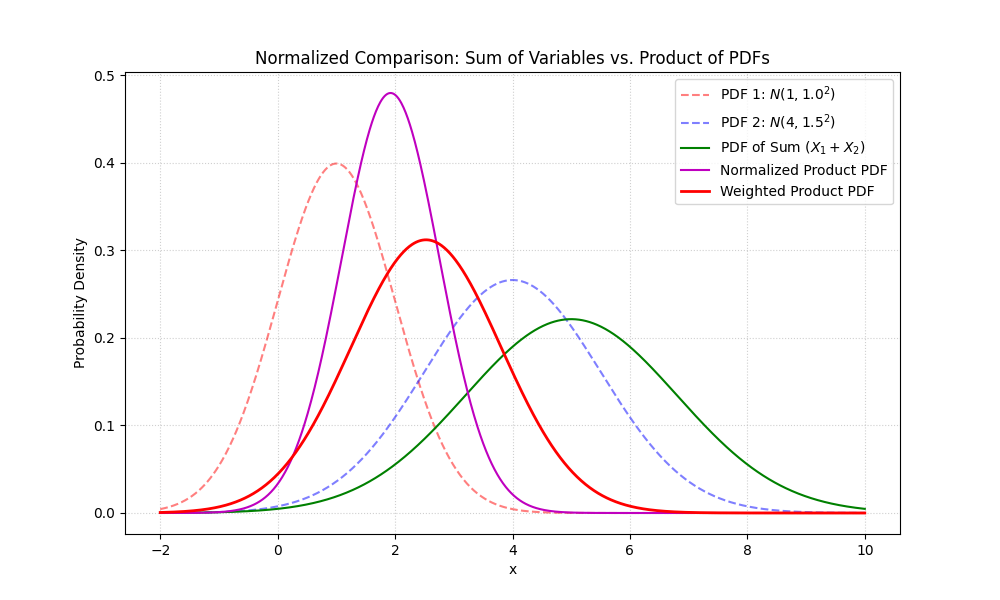
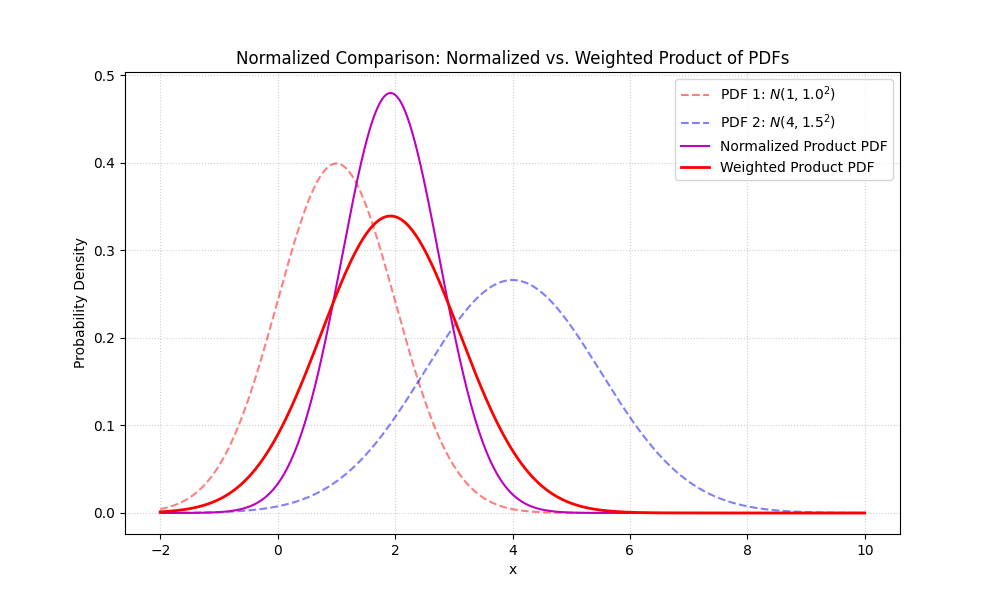
temp

diff --git a/_posts/2026-03-29-chzzk-racing-rating-2.md b/_posts/2026-03-29-chzzk-racing-rating-2.md
@@ -4,7 +4,7 @@ title: "치레동 레이팅 설계해보기 (수식)"
 latex_needed: true
 comment: true
 
-excerpt: "진짜로 수식이 궁금하신가요"
+excerpt: "진짜로 뭘 어떻게 했는지 궁금하신가요"
 topic: "레이팅"
 keyword:
   - "치지직 레이싱 동아리"
@@ -75,7 +75,7 @@ modified_date:
 1. 꾸준한 퍼포먼스를 반영하는 레이팅
 1. 대결한 선수의 실력에 따른 레이팅 보정
 
-또한 주석으로 언급하기는 했으나 랭킹 지수 자체에도 약간 수학적 결함이 있다. 다만 사소한 내용이니 궁금하다면 클릭해서 펼쳐보면 좋을 것 같다.
+또한 주석으로 언급하기는 했으나 랭킹 지수 자체에도 약간 수학적 결함이 있다. 아래 글씨를 클릭하면 볼 수 있으니 관심이 있다면 확인해보길 바란다.
 
 <p><details>
 <summary><u>랭킹 지수의 (사소한) 수학적 결함</u></summary>
@@ -89,12 +89,19 @@ $$
 \end{aligned}
 $$
 
-여기서 랭킹 지수에 문제가 있다. 치레동 1회에서 만약 압도적인 실력으로 티어 지수 1을 기록했다면, 랭킹 지수가 어떻게 될까? $\frac{10}{1}\times\frac{1}{12}=0.8333...$이 되어 랭킹 지수가 1보다 낮아진다. 이는 <b>10명이 참가하는 대회에서 대략적으로 획득할 것으로 기대하는 순위인데, 이것이 1보다 작아지는 것</b>이다. 따라서 개인적으로는 아래와 같은 정의가 더 낫지 않았을까 하는 생각도 있다. 항상 <b>1 이상</b>의 값이 보장되고 상한값은 기존과 같이 10이다.
+여기서 랭킹 지수에 문제가 있다. 치레동 1회에서 만약 압도적인 실력으로 티어 지수 1을 기록했다면, 랭킹 지수가 어떻게 될까? $\frac{10}{1}\times\frac{1}{12}=0.8333...$이 되어 랭킹 지수가 1보다 낮아진다. 이는 <b>10명이 참가하는 대회에서 대략적으로 획득할 것으로 기대하는 순위인데, 이것이 1보다 작아지는 것</b>이다. 따라서 개인적으로는 아래와 같은 정의가 더 낫지 않았을까 하는 생각도 있다. 항상 1 이상의 값이 보장되고 상한값은 기존과 같이 10이 된다.
+
+$$
+\text{랭킹 지수}=\color{blue}{1+}\frac{10\color{blue}{-1}}{\left|I_A\right|}\sum_{j \in I_A}\frac{T_j^A\color{blue}{-1}}{P_j\color{blue}{-1}}
+$$
 
 $$
 \begin{aligned}
-\text{랭킹 지수}&=\color{blue}{1 +}\frac{10}{\left|I_A\right|} \sum_{j \in I_A}\frac{T_j^A\color{blue}{-1}}{P_j\color{blue}{-1}}\\
-\text{티어 지수}(T)&=\frac{1}{n}\sum_{i=1}^n \left(0.3Q_i+0.7R_i\right)
+1\leq T_j^A\leq P_j&\Rightarrow 0\leq\frac{T_j^A-1}{P_j-1}\leq 1\\
+&\Rightarrow0\leq\sum_{j \in I_A}\frac{T_j^A-1}{P_j-1}\leq\sum_{j \in I_A}1\\
+&\Rightarrow 0\leq\sum_{j \in I_A}\frac{T_j^A-1}{P_j-1}\leq\left|I_A\right|\\
+&\Rightarrow 0\leq\frac{10-1}{\left|I_A\right|}\sum_{j \in I_A}\frac{T_j^A-1}{P_j-1}\leq 9\\
+&\Rightarrow 1\leq 1+\frac{10-1}{\left|I_A\right|}\sum_{j \in I_A}\frac{T_j^A-1}{P_j-1}\leq 10
 \end{aligned}
 $$
 
@@ -221,15 +228,15 @@ $$
 
 앞에서와 같이 두 관측값을 곱해서 새로운 분포를 사용하는 형태이고, 같은 방법을 통해서 계산할 수 있다. 다만, 위 식은 앞 식에서 의미가 더 부여된 것이라고 볼 수도 있다. $S$라는 **지금까지의 관측값**이 있고, $R$이라는 **새로운 관측값**이 있을 때, 새로운 분포를 찾는 수식이다. 말로 풀어쓰자면, 사후(事後)확률은 사전(事前)확률과 그에 기반하여 발생한 사건의 확률을 곱한 것에 비례한다는 것이다.
 
-하지만 치레동에 맞는 레이팅 로직을 고민하면서 마주한 문제는 새로운 관측값 $R$이 하나가 아니라는 것이었다. 개인전 결과 $R_{Ind}$도 있고, 팀전 결과 $R_{Team}$도 있는 상황에서 어떻게 하면 이 두 관측값을 잘 버무려서 새로운 관측값 $R^\*$를 만들고, 이를 기반으로 최종 실력 $S\|R^\*$을 구할 수 있을까 하는 문제였다.
+하지만 치레동에 맞는 레이팅 로직을 고민하면서 마주한 문제는 새로운 관측값 $R$이 하나가 아니라는 것이었다. 개인전 순위에 따른 결과도 있고, 팀전 순위에 따른 결과도 있는 상황에서 어떻게 하면 이 두 관측값을 잘 버무려서 새로운 관측값 $R^\*$를 만들고, 이를 기반으로 최종 실력 $S\|R^\*$을 구할 수 있을까 하는 문제였다.
 
-여기서 앞에서의 정규분포 합성을 이용해보자. 우선 두 결과를 단순히 곱해보겠다.
+여기서 앞에서의 정규분포 합성을 이용해보자. 우선 두 결과를 단순히 곱해보겠다. 합성하고 싶은 두 관측값을 각각 $R_A$, $R_B$라고 쓰겠다.
 
 $$
 \begin{aligned}
-f_{S|R_{Ind}}(x)\cdot f_{S|R_{Team}}(x)&\propto\left(f_{R_{Ind}|S}(x)f_S(x)\right)\cdot\left(f_{R_{Team}|S}(x)f_S(x)\right)\\
-&=f_{R_{Ind}|S}(x)\cdot f_{R_{Team}|S}(x)\cdot f_S(x)^2\\
-&=\left(f_{R_{Ind}|S}(x)\cdot f_{R_{Team}|S}(x)\cdot f_S(x)\right)\cdot f_S(x)\\
+f_{S|R_A}(x)\cdot f_{S|R_B}(x)&\propto\left(f_{R_A|S}(x)f_S(x)\right)\cdot\left(f_{R_B|S}(x)f_S(x)\right)\\
+&=f_{R_A|S}(x)\cdot f_{R_B|S}(x)\cdot f_S(x)^2\\
+&=\left(f_{R_A|S}(x)\cdot f_{R_B|S}(x)\cdot f_S(x)\right)\cdot f_S(x)\\
 \end{aligned}
 $$
 
@@ -238,9 +245,9 @@ $$
 $$
 a+b=1\text{인 실수 }a,b\text{에 대해서,}\\
 \begin{aligned}
-f_{S|R_{Ind}}(x)^{a}\cdot f_{S|R_{Team}}(x)^{b}&\propto\left(f_{R_{Ind}|S}(x)f_S(x)\right)^{a}\cdot\left(f_{R_{Team}|S}(x)f_S(x)\right)^{b}\\
-&=f_{R_{Ind}|S}(x)^{a}\cdot f_{R_{Team}|S}(x)^{b}\cdot f_S(x)^{a+b}\\
-&=\left(f_{R_{Ind}|S}(x)^{a}\cdot f_{R_{Team}|S}(x)^{b}\right)\cdot f_S(x)
+f_{S|R_A}(x)^{a}\cdot f_{S|R_B}(x)^{b}&\propto\left(f_{R_A|S}(x)f_S(x)\right)^{a}\cdot\left(f_{R_B|S}(x)f_S(x)\right)^{b}\\
+&=f_{R_A|S}(x)^{a}\cdot f_{R_B|S}(x)^{b}\cdot f_S(x)^{a+b}\\
+&=\left(f_{R_A|S}(x)^{a}\cdot f_{R_B|S}(x)^{b}\right)\cdot f_S(x)
 \end{aligned}
 $$
 
@@ -248,9 +255,9 @@ $$
 
 $$
 \begin{aligned}
-f_{R^*|S}(x)&:= f_{R_{Ind}|S}(x)^{a}\cdot f_{R_{Team}|S}(x)^{b}\\
+f_{R^*|S}(x)&:= f_{R_A|S}(x)^{a}\cdot f_{R_B|S}(x)^{b}\\
 f_{S|R^*}(x)&\propto f_{R^*|S}(x)\cdot f_S(x)\\
-&=\left(f_{R_{Ind}|S}(x)^{a}\cdot f_{R_{Team}|S}(x)^{b}\right)\cdot f_S(x)
+&=\left(f_{R_A|S}(x)^{a}\cdot f_{R_B|S}(x)^{b}\right)\cdot f_S(x)
 \end{aligned}
 $$
 
@@ -259,27 +266,57 @@ $$
 $$
 \begin{aligned}
 f_{S|R^*}(x)&\propto f_{R^*|S}(x)\cdot f_S(x)\\
-&=\left(f_{R_{Ind}|S}(x)^{a}\cdot f_{R_{Team}|S}(x)^{b}\right)\cdot f_S(x)\\
-&=\left(f_{R_{Ind}|S}(x)\cdot f_S(x)\right)^{a}\cdot\left(f_{R_{Team}|S}(x)\cdot f_S(x)\right)^{b}\\
-&\propto f_{S|R_{Ind}}(x)^{a}\cdot f_{S|R_{Team}}(x)^{b}
+&=\left(f_{R_A|S}(x)^{a}\cdot f_{R_B|S}(x)^{b}\right)\cdot f_S(x)\\
+&=\left(f_{R_A|S}(x)\cdot f_S(x)\right)^{a}\cdot\left(f_{R_B|S}(x)\cdot f_S(x)\right)^{b}\\
+&\propto f_{S|R_A}(x)^{a}\cdot f_{S|R_B}(x)^{b}
 \end{aligned}
 $$
 
-편의상 $f_{S\|R_{Ind}}(x)\sim\mathcal{N}(\mu_I,\sigma_I^2)$와 $f_{S\|R_{Team}}(x)\sim\mathcal{N}(\mu_T,\sigma_T^2)$로 나타내겠다. 새로 정의한 변수와 앞에서 유도한 두 정규분포의 합성 식을 사용한다면, 최종적으로 정규분포 $f_{S\|R^*}(x)$는 아래와 같이 된다.
+편의상 $f_{S\|R_A}(x)\sim\mathcal{N}(\mu_A,\sigma_A^2)$와 $f_{S\|R_B}(x)\sim\mathcal{N}(\mu_B,\sigma_B^2)$로 나타내겠다. 새로 정의한 변수와 앞에서 유도한 두 정규분포의 합성 식을 사용한다면, 최종적으로 정규분포 $f_{S\|R^*}(x)$는 아래와 같이 된다.
 
 $$
 \begin{aligned}
 S|R^*&\sim\mathcal{N}(\mu^*, {\sigma^*}^2)\\
-\mu^*&=\frac{a\tau_I\mu_I+b\tau_T\mu_T}{a\tau_I+b\tau_T}\\
-\frac{1}{ {\sigma^*}^2}=\tau^*&=a\tau_I+b\tau_T
+\mu^*&=\frac{a\tau_A\mu_A+b\tau_B\mu_B}{a\tau_A+b\tau_B}\\
+{\sigma^*}^2=\frac{1}{\tau^*}&=\frac{1}{a\tau_A+b\tau_B}
 \end{aligned}
 $$
 
-이제 치레동 레이팅으로서의 목표를 되돌아보면, 개인전과 팀전 결과를 7:3 정도의 비율로 반영하는 레이팅 시스템을 만들고 싶었다. 따라서 $a=0.7$과 $b=0.3$으로 설정했다. 그렇게 하면 아래의 이미지의 빨간색 그래프와 같은 결과를 얻을 수 있다.
+이제 테스트로 $a$와 $b$를 각각 0.5로 설정해서 앞에서 만들었던 그래프와 비교해보겠다.
 
-![개인전과 팀전 결과를 7:3으로 반영한 레이팅 시스템](/images/chzzk-racing-rating/weighted-precision-blending.png)
+![가중치를 적용한 그래프와 비교](/images/chzzk-racing-rating/weighted-precision-blending.png)
 
-단순히 두 관측값을 곱한 그래프였던 보라색 그래프와 비교해보면, 전반적으로 빨간색 그래프가 파란색 그래프에 더 가까이 위치하는 것을 볼 수 있다. 이는 개인전 결과가 팀전 결과보다 더 높은 정확도로 관측되었기 때문인데, 실제로도 개인전 결과가 팀전 결과보다 더 높은 정확도로 관측된다고 가정했기 때문에 우리가 원하는 형태의 레이팅 시스템이 만들어졌다고 볼 수 있다. 또한, 그래프의 너비를 비교해보면,
+보라색 그래프와 빨간색 그래프를 비교해보자면, 우선 봉우리의 위치는 같다. 하지만 너비와 높이가 다른 것을 볼 수 있다. 이전에 그렸던 보라색 그래프는 합성에 사용한 두 그래프보다도 더 좁게 나타나지만, 그에 반해서 빨간색 그래프는 두 그래프의 너비의 중간에 해당하는 너비를 가진다. 수식의 의미 상으로나, **두 결과를 조합해서 하나의 결과**로서 반영한다는 의도로나, 빨간색 그래프가 보라색 그래프보다 더 적절해보인다. a와 b의 값을 조정해서 어느 쪽에 더 가중치를 줄지도 조정할 수 있다. 아래의 그래프는 a와 b를 바꿔가면서 그린 그래프이다.
+
+![여러 가중치에 대한 그래프](/images/chzzk-racing-rating/weighted-precision-blendings.png)
+
+전반적으로 a가 커질수록 평균이 왼쪽으로 이동하고, b가 커질수록 평균이 오른쪽으로 이동하는 것을 볼 수 있다. 또한 너비도 a가 커질수록 왼쪽 그래프의 너비에 가까워지고, b가 커질수록 오른쪽 그래프의 너비에 가까워지는 것을 볼 수 있다. 평균과 표준편차가 두 그래프 사이가 되는 것을 보아 두 그래프의 lerp로 생각할 수도 있을 것 같다. 이러한 과정을 앞으로 아래의 함수로 쓰겠다.
+
+$$
+\begin{aligned}
+L(S, R_A, R_B, a)&\sim\mathcal{N}(\mu_T,\sigma_T^2)\\
+\mu_T&=\frac{a\tau_A\mu_A+(1-a)\tau_B\mu_B}{a\tau_A+(1-a)\tau_B}\\
+\sigma_T^2&=\frac{1}{a\tau_A+(1-a)\tau_B}
+\end{aligned}
+$$
+
+#### 결과를 조금만 반영하기
+
+위 식은 두 사후확률이 있을 때 둘을 합성하는 방법이다. 그런데 꼭 합성하는 것이 꼭 사후확률이어야 할까? 사실 정규분포인 것이면 아무거나 상관없지 않을까 하는 생각이 들었다. 즉, 굳이 관측값 $R_B$가 아닌, $f_{S\|I}(x)=f_S(x)$를 만족하는 어떤 관측값 $I$에 대해 $R_A$와 $I$를 합성하는 것도 가능하다는 것이다. 그러면 아래와 같이 식을 전개할 수 있다.
+
+$$
+\begin{aligned}
+f_{S|R^*}(x)&\propto f_{R^*|S}(x)\cdot f_S(x)\\
+&=\left(f_{R_A|S}(x)^a\cdot f_{I|S}(x)^{1-a}\right)\cdot f_S(x)\\
+&=\left(f_{R_A|S}(x)\cdot f_S(x)\right)^a\cdot\left(f_{I|S}(x)\cdot f_S(x)\right)^{1-a}\\
+&\propto f_{S|R_A}(x)^a\cdot f_{S|I}(x)^{1-a}\\
+&=f_{S|R_A}(x)^a\cdot f_S(x)^{1-a}
+\end{aligned}
+$$
+
+위 식의 의미를 풀어보자면, 관측값 $R_A$의 결과를 $a(a<1)$만큼 반영하고 나머지 $1-a$에 대한 부분은 사전확률을 그대로 반영하는 것이다. 즉, $R_A$의 결과를 완전히 반영하는 것이 아니라, $a$의 값에 따라서 $R_A$의 결과를 조금만 반영하는 것이다. 수식으로 나타내자면 $L(S, R_A, I, a)$에 해당하는 연산이고, 이를 $a$만큼의 가중치로 $R_A$의 결과를 반영하는 연산으로 사용할 수 있을 것 같다.
+
+#### 치레동에 적용
 
 ### 결론
 
